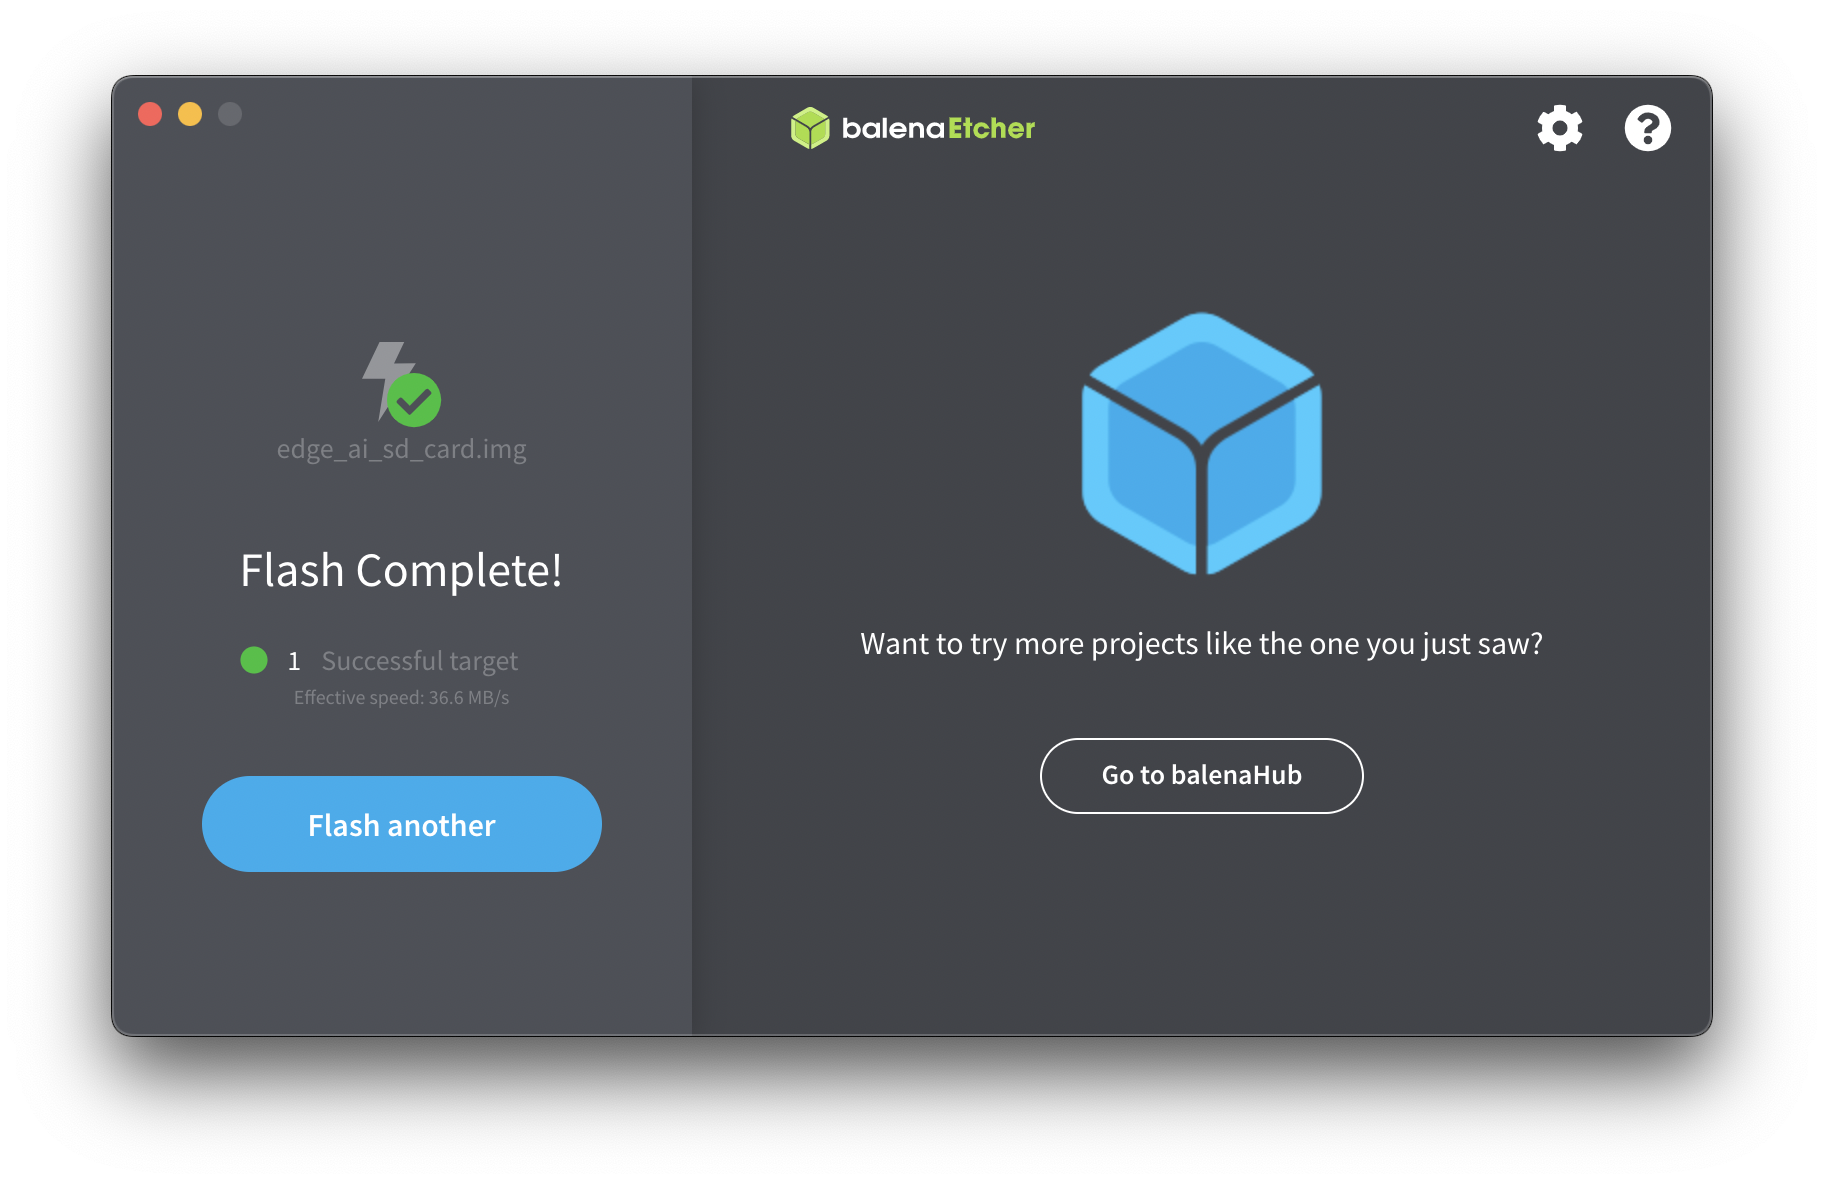
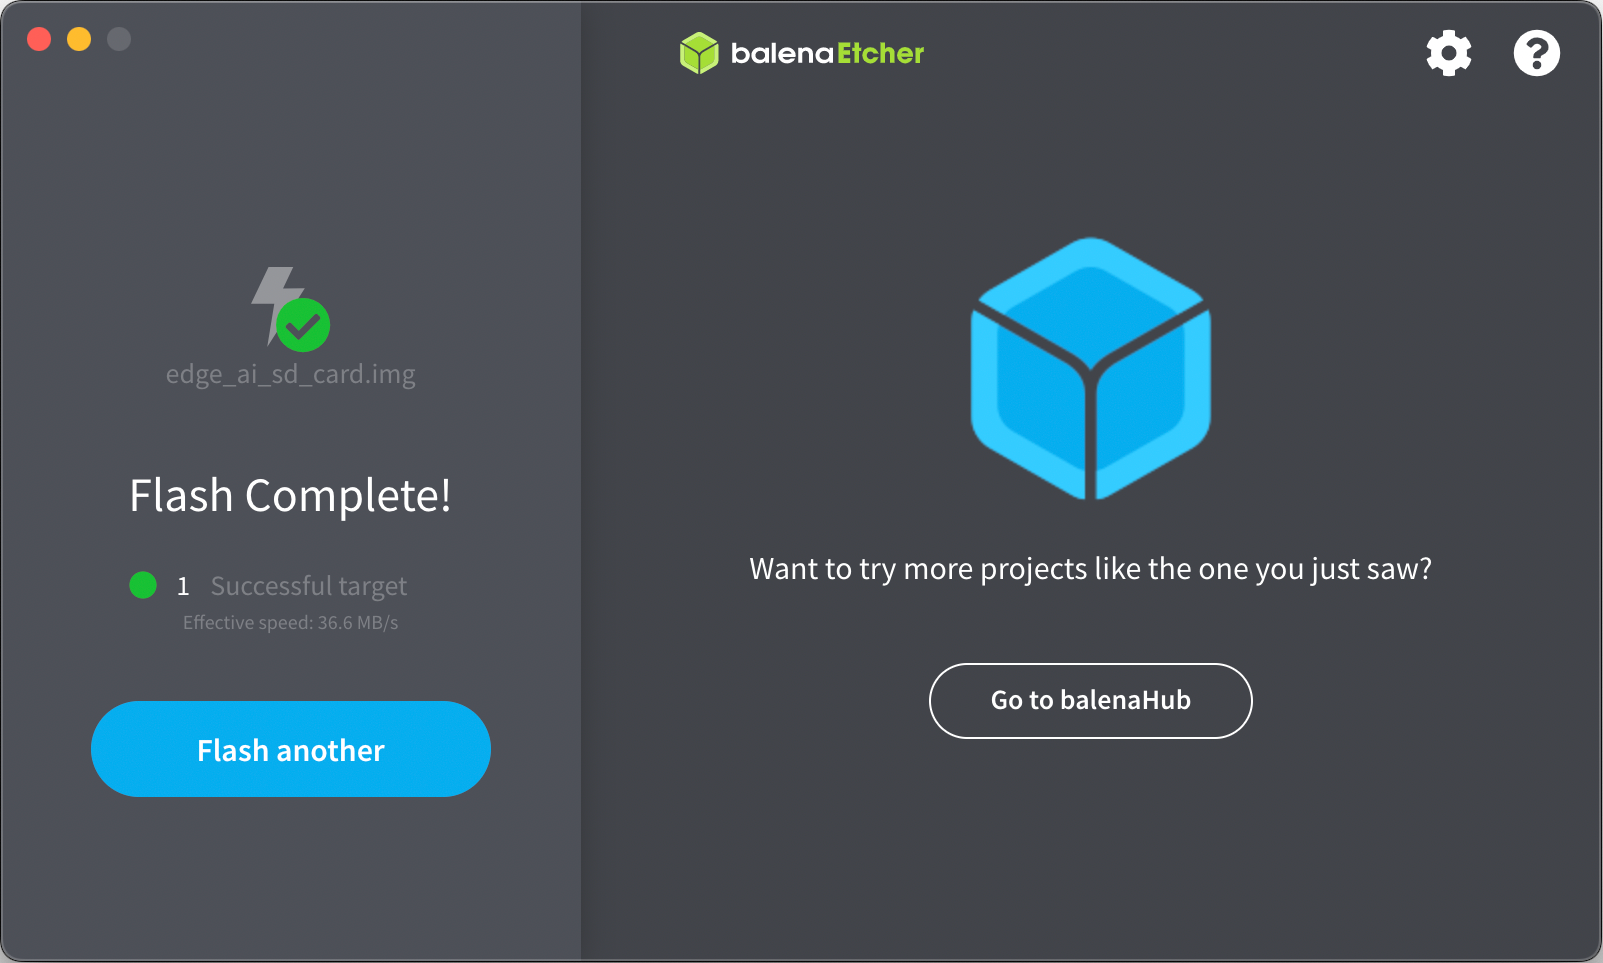
feedback. cropped shadows out of completed.png.

diff --git a/docs/installation/tda4vm-install.md b/docs/installation/tda4vm-install.md
@@ -1,27 +1,15 @@
 ---
 title: "TI TDA4VM Setup Guide"
-linkTitle: "TDA4VM Setup Guide"
+linkTitle: "TDA4VM Setup"
 weight: 25
 type: "docs"
 description: "A guide to imaging a TDA4VM, installing viam-server, and syncing the TDA4VM with the Viam app."
 # Doc contact - Mike
 ---
-## Overview
 
-The TDA4VM board is designed for high-performance processing, performing up to 8 trillion operations per second. It provides multiple interfaces, including USB 3.0, CAN-FD, UART (over USB), M.2 Keys E and M, as well as multi-camera support via CSI-2 (R-Pi compatible) and a 40-pin Semtec connector that supports up to eight cameras (requires a TIDA-01413 sensor fusion add-on).
+## Required downloads
 
-## Texas Instruments Resources
-
-* Product Page
-(Spec sheet and Errata): <a href="https://www.ti.com/product/TDA4VM" target="blank">ht<span></span>tps://www.ti.com/product/TDA4VM</a>
-
-* Overview Page: <a href="https://www.ti.com/tool/SK-TDA4VM" target="blank">ht<span></span>tps://www.ti.com/tool/SK-TDA4VM</a>
-
-* SK-TDA4VM User's Guide: <a href="https://www.ti.com/lit/ug/spruj21c/spruj21c.pdf" target="blank">ht<span></span>tps://www.ti.com/lit/ug/spruj21c/spruj21c.pdf</a>
-
-* Support and Training: <a href="https://www.ti.com/tool/SK-TDA4VM#support-training" target="blank">ht<span></span>tps://www.ti.com/tool/SK-TDA4VM#support-training</a>
-
-## Downloads
+You will need to download the following files to your computer:
 
 Download the <a href="https://www.ti.com/tool/download/PROCESSOR-SDK-LINUX-SK-TDA4VM" target="_blank">PROCESSOR-SDK-LINUX-SK-TDA4VM — Linux SDK for edge AI applications on TDA4VM Jacinto™ processors</a>[^image] image.
 
@@ -33,11 +21,14 @@ Next, download and install the <a href="https://github.com/balena-io/etcher/rele
 
 You will use the Balena Etcher to flash the micro-SD card.
 
-## Flashing the Image
+## Flashing the image
 
-
-{{% alert="Note" color="note" %}}
+{{% alert title="Note" color="note" %}}
 You must extract the image from the zip file before attempting to flash the microSD card.
+{{% /alert %}}
+
+{{% alert title="Note" color="note" %}}
+If you intend to perform video capture or use the Data Management service, you may need a higher capacity microSD card to hold the cached video or data. Otherwise, a 16GB microSD is sufficient to hold the linux board image and the viam-server. 
 {{% /alert %}}
 
 {{< figure src="../img/tda4vm/etcher.png" width="600px" alt="The Balena Etcher interface." title="The Balena Etcher interface." >}}
@@ -57,34 +48,37 @@ You must extract the image from the zip file before attempting to flash the micr
 
 ## Installing Viam Server on the TDA4VM
 
-### External Connection and Login
+### External connection and login
 
-1. Connect the ethernet, hdmi, and USB-C power cables to the board. 
+1. Connect the ethernet, HDMI, and USB-C power cables to the board.
 
 2. Use the credentials and IP address displayed in the upper right-hand corner of the monitor to SSH into the board:
 
 {{< figure src="../img/tda4vm/welcomescreen.png" width="600px" alt="TI Welcome Screen." title="TI Welcome Screen." >}}
 
-## Installing Viam-Server
+### Installing viam-server
 
-You must be logged in to the board to perform this section.
+Login to the board using SSH to complete this section.
 
-1. Clone the TDA4VM repo: git clone https://github.com/viam-labs/tda4vm-setup.git
-1. Navigate to the setup directory: cd tda4vm-setup/
-1. Make the server setup script executable: chmod +x tda4vm-viam-setup.sh
-1. Launch the setup script: ./tda4vm-viam-setup.sh
-1. In the Viam App, navigate to the **CONFIG** tab. 
-1. In the **Create Component** pane, enter a **Name** for the board, select "board" from the **Type** drop-down, and select "ti" from the **Model** drop-down.
-1. Click **Create Component**.
-1. Click **Save Config**.
-1. Navigate to the **SETUP** tab.
-1. Copy the command string provided in Item #1, then run the command in your terminal session to download the Viam app config to the board.
-1. Copy the command string provided in Item #2, then run the command in your terminal session to download and install the viam-server on the board.
-1. Await the connection confirmation. When the viam-server is connected, the Viam app displays:
+<OL>
+<li>Clone the TDA4VM repo:<br>
+<file>git clone https://github.com/viam-labs/tda4vm-setup.git</file></li>
+<li>Navigate to the setup directory:<br> <file>cd tda4vm-setup/</file> </li>
+<li>Make the server setup script executable:<br> <file>chmod +x tda4vm-viam-setup.sh</file> </li>
+<li>Launch the setup script:<br> <file>./tda4vm-viam-setup.sh </file></li>
+<li>In the Viam App, navigate to the <strong>CONFIG</strong> tab. </li>
+<li>In the <strong>Create Component</strong> pane, enter a <strong>Name</strong> for the board, select "board" from the <strong>Type</strong> drop-down, and select "ti" from the <strong>Model</strong> drop-down.</li>
+<li>Click <strong>Create Component</strong>.</li>
+<li>Click <strong>Save Config</strong>.</li>
+<li>Navigate to the <strong>SETUP</strong> tab.</li>
+<li>Copy the command string provided in <strong>Item #1</strong>, then run the command in your terminal session to download the Viam app config to the board.</li>
+<li>Copy the command string provided in <strong>Item #2</strong>, then run the command in your terminal session to download and install the viam-server on the board.</li>
+<li>Await the connection confirmation. When the viam-server is connected, the Viam app displays a successful image flash completion screen:
+</ol>
 
-{{< figure src="../img/tda4vm/connected.png" width="300px" alt="Successful image flash completion screen." title="Successful image flash completion screen." >}}
+{{< figure src="../img/tda4vm/connected.png" width="282px" alt="Successful image flash completion screen." title="Successful image flash completion screen.">}}
 
-## Restarting the Server
+### Restarting the server
 
 After SSHing into the board, run:
 
@@ -96,6 +90,6 @@ to restart the viam-server if necessary, or click **Restart** in the Viam App.
 
 Now that you have viam-server up and running on your TDA4VM, you can start configuring your robot and the real fun can begin!
 
-## Need Assistance?
+## Need assistance?
 
 You can ask questions on the [Viam Community Slack](http://viamrobotics.slack.com) and we will be happy to help.
